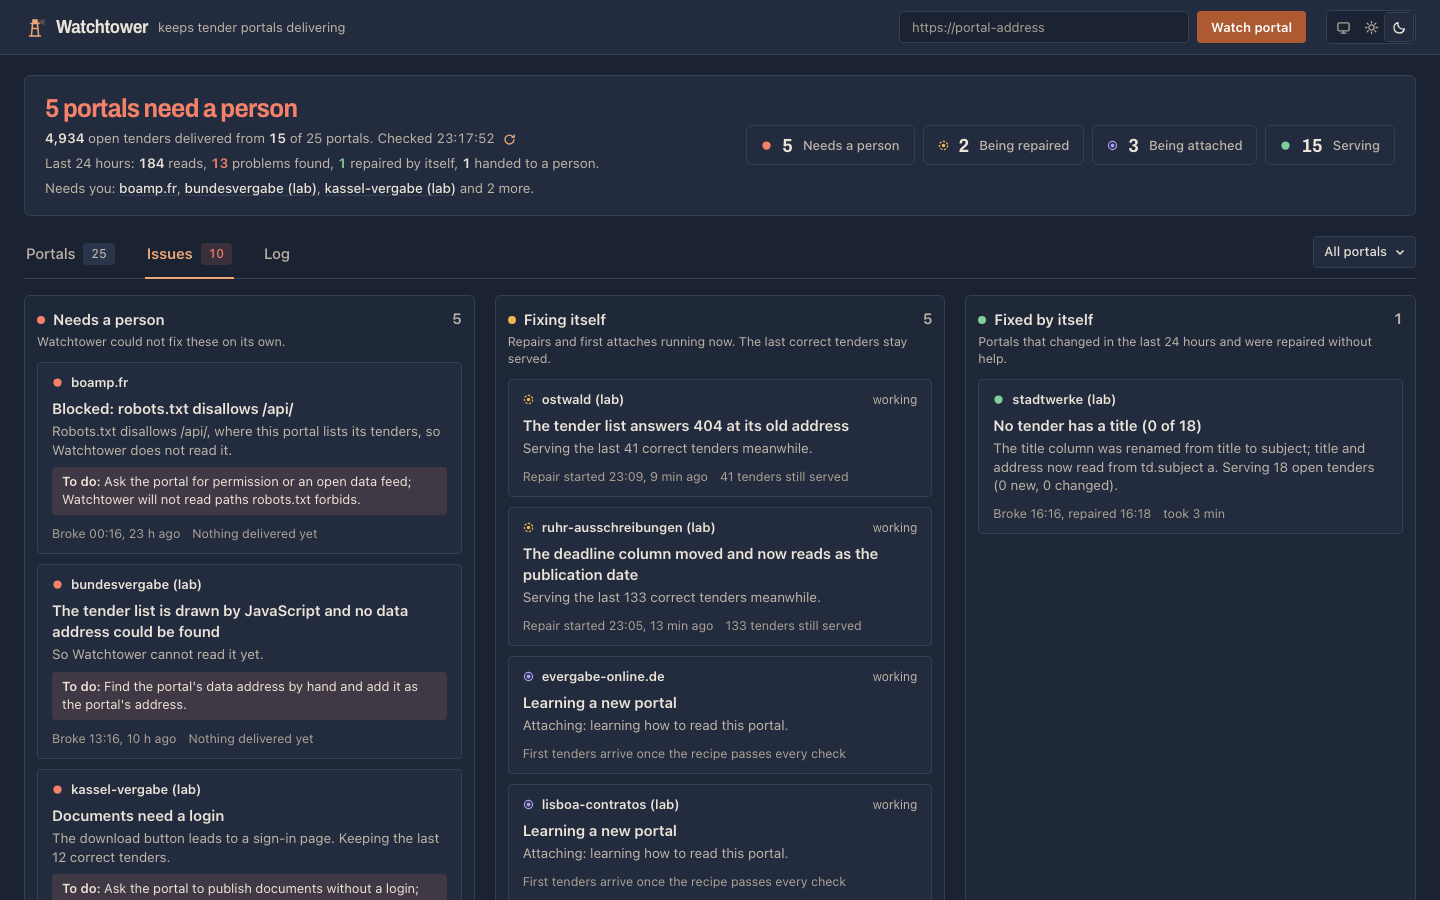
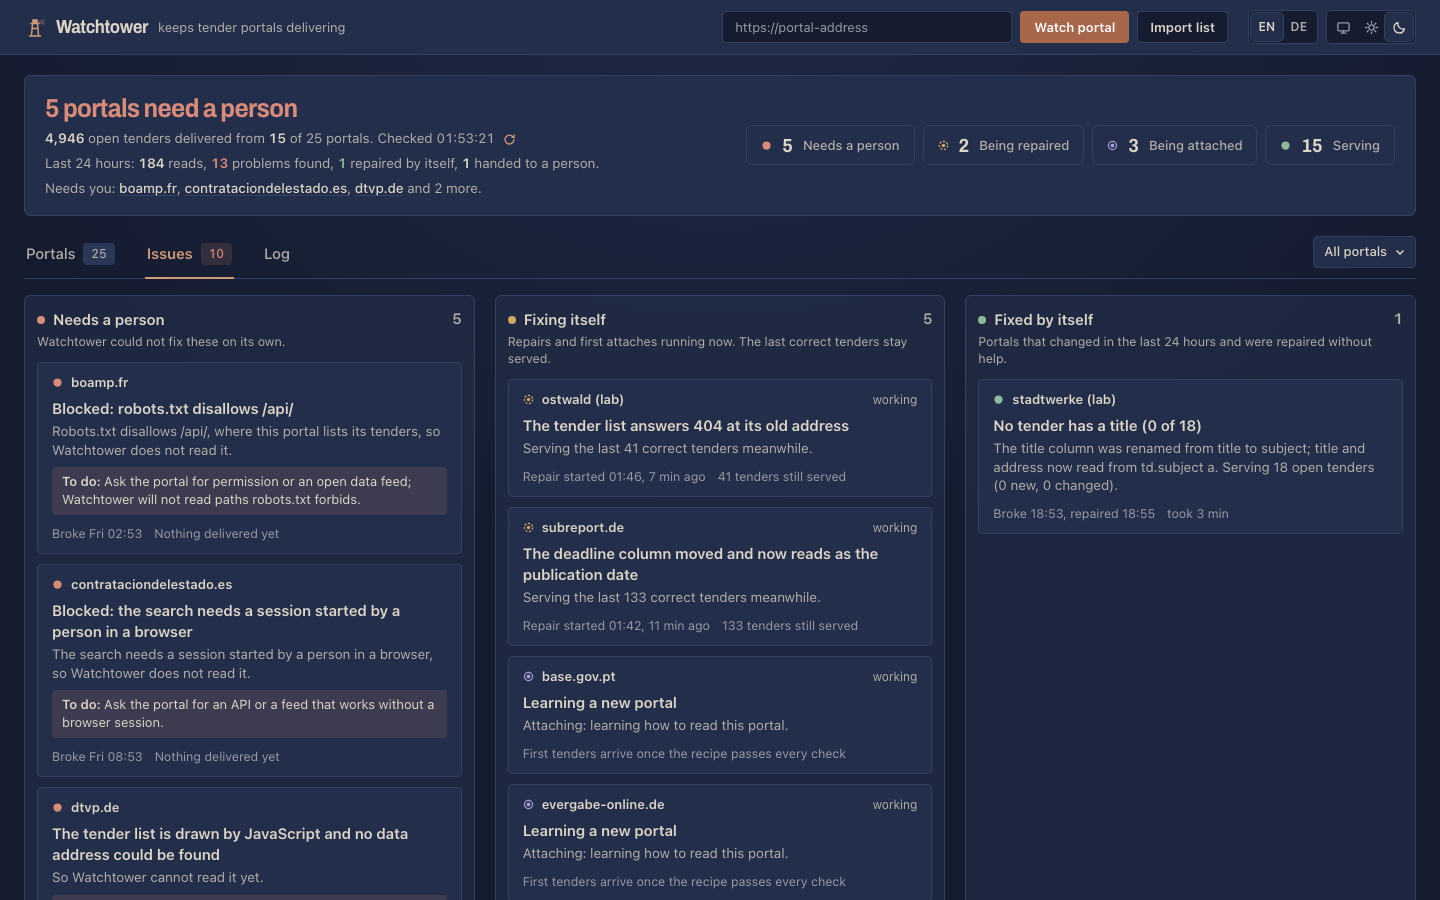
Focus the README on judging evidence

diff --git a/README.md b/README.md
@@ -1,124 +1,97 @@
 # Watchtower
 
-Watchtower connects public-tender portals on its own, watches whether each one still delivers correctly, and repairs itself when a portal changes. Built for Patterno's challenge at the MAIN AI Hackathon 2026.
+Watchtower **attaches** to public tender portals from a URL, **notices** when tenders or documents stop arriving correctly, and **repairs** its extraction rules when a portal changes. It does this without human help while running. If it cannot verify a repair, it explains why and keeps the last correct delivery.
 
-## Try it in 2 minutes
+## Run it
 
-From the repository root, create `.env` if you don't already have one, then set `OPENAI_API_KEY`, `MODEL_SMART`, and `MODEL_FAST` in it. See [Environment variables](#environment-variables) for provider settings.
+Create a local `.env` from `.env.example` if needed. Set `OPENAI_API_KEY`; set `MODEL_SMART` and `MODEL_FAST` if your provider uses names other than the defaults below. Use the root Dockerfile, not `Dockerfile.vercel` (the hosted demo).
 
 ```bash
 test -f .env || cp .env.example .env
-docker build -t watchtower .
+docker build --platform linux/amd64 -t watchtower .
 docker run -p 8080:8080 --env-file .env watchtower
 ```
 
-Open http://localhost:8080. In a second terminal, register a portal:
+Open [localhost:8080](http://localhost:8080) and enter a public portal URL under **Watch portal**. The API returns its ID immediately; delivery follows in the background. No authentication, as the brief specifies. To check the API from another terminal, run `npm run test:contract` after installing the dependencies with `npm ci`. The [November 21, 01:47 CET hand-in check](status/A.md) at `c74950d` records a fresh Linux/amd64 build in about **20 s** and **16/16** contract checks passing.
 
-```bash
-curl -fsS http://localhost:8080/portals \
-  -H 'Content-Type: application/json' \
-  --data '{"url":"https://www.tenderned.nl/aankondigingen/overzicht"}'
+## How it works
+
+```text
+POST /portals → Cartographer (model at attach) → JSON recipe
+    → Extractor (no model; per-host rate limit) → Watch checks → serving
+        ↳ broken → healing (keeps old tenders) → Medic (model patch)
+            → re-read + golden records + document verification → serving or failed with reason
 ```
 
-The API returns an ID immediately; the first read runs in the background and can take longer than two minutes. **Portals** shows delivery state, tender counts, and a map; open a row for its run history. **Issues** shows what needs attention, what is being repaired, and what recovered. **Log** shows what happened across portals. The theme switch offers light, dark, or system settings.
+- **Recipes** describe where to read listings, fields and attachments; they are JSON, not executable model output. Known software families can reuse a recipe after a successful trial without a model call.
+- **Golden tenders** are previously verified records used to check new reads and candidate repairs. Missing evidence never becomes an invented value.
+- **Files** stream to disk, ZIPs are unpacked, and each file is served by its SHA-256. Repair promotion checks fresh downloads of previously delivered files, even when their URLs did not change.
+- **States** distinguish `integrating`, `serving`, `healing`, and `failed`. A portal-wide login, captcha or robots.txt block gets a named failure; isolated document walls hold affected updates back and are named in the reason.
+- **Rate limits** apply to HTTP and browser requests through a shared per-host gate: at most one request per second, respecting robots.txt. Reads on different hosts run in parallel.
+- **Spend limits** reserve estimated headroom before each model request. A failed repair cools down before another model attempt; regular checks continue without a model call.
 
-**Demo without a model key:** with Node.js 22.13 or later, run the following and open http://localhost:8083. The demo seeds sample portals and repair history, disables new registrations, and never starts scheduled reads or model calls. Only an explicit **Read now** starts a read and may change the sample data. The hosted `SEED_DEMO=1` mode follows the same rules.
+## Evidence by judging criterion
+
+**Attach.** The November 21, 00:59–01:04 CET attach-only recheck at `29ec17a` (recorded in `7e04b69`) scored **100%, zero wrong values**: Gmina twice (**13/13** each), Stadtwerke (**14/14**), Ville (**11/11**). The November 20, 22:28 CET full lab run scored **73%, zero wrong values**; missing fields reduced that score (D’s archived `status/D.md` at `931e012`).
+
+**Notice.** Watch checks read completeness, field values and golden records before delivery. The 22:28 full run triggered **3 false repairs in 6** harmless changes. A separate November 21, 00:15 CET Gmina empty-day check had **0 in 1** and stayed `serving` (audit commit `b357b5d`).
+
+**Repair.** The 22:28 full run healed **11 of 13** breaking changes (**85%**), with a **16 s** median. In a separate November 21, 00:29 CET Gmina test, renamed classes repaired in **78.7 s** for **$0.014** (`da52b36` repair check). These are lab observations, not live-portal guarantees.
+
+**Dashboard.** Portals shows state, open versus delivered counts, and the map; Issues shows what needs attention; Log and the detail panel show reads, repairs, and model cost. See the sample views below.
+
+**Approach.** After the initial backlog clears, reads still check the listing but only fetch new or changed details and attachments. The TenderNed measurement recorded November 21 at 01:29 CET (`f9c4577`, [A’s hand-in notes](status/A.md)) listed **2,592** tenders and served its first **36** after about **14 minutes**; B’s November 21 handoff records a separate run at about **8.5 minutes** ([B’s notes](status/B.md)).
+
+## Model cost per portal
+
+| Operation | Model cost | Basis |
+|---|---:|---|
+| Attach once | $0.033 average | B’s November 20, 23:12 CET attach-only eval on three lab portals; the earlier 22:28 full run averaged $0.040. |
+| Regular read | $0 | Deterministic extractor; no model call. |
+| Repair | $0.021 average | November 20, 22:28 CET full lab eval, per scenario that started a repair. |
+| Family attach | $0 | A reused recipe that passes its trial without a model call. |
+
+At the $0.033 lab average, **1,000 independent attaches would cost about $33 once**, plus repairs when portals change. This assumes no family reuse and excludes hosting and storage. The ledger uses configured prices and reported usage; provider billing is authoritative.
+
+## Environment variables
+
+Defaults below come from `src/platform/config.ts`, `src/platform/documents.ts`, `src/shared/time.ts`, `src/llm/client.ts`, `src/server/main.ts`, and the root Dockerfile.
+
+| Variable | Required | Default / meaning |
+|---|---|---|
+| `OPENAI_API_KEY` | For model calls | None; provider key. |
+| `MODEL_SMART`, `MODEL_FAST` | No | `gpt-6.2-sol`, `gpt-6-luna`; override with models your provider serves. |
+| `OPENAI_BASE_URL` | No | OpenAI endpoint; set for an OpenAI-compatible provider. |
+| `PRICE_SMART_IN`, `PRICE_SMART_OUT`, `PRICE_FAST_IN`, `PRICE_FAST_OUT` | No | `0`; set actual USD per million tokens for meaningful cost and spend limits. |
+| `PRICE_SMART_CACHED_IN`, `PRICE_FAST_CACHED_IN` | No | Half the corresponding input price, USD per million tokens. |
+| `LLM_PROMPT_CACHE` | No | Enabled; set `0` to disable. |
+| `MAX_MODEL_USD_PER_PORTAL`, `MAX_MODEL_USD_PER_DAY` | No | `1.00` lifetime per portal and `20` per local day; `0` disables the corresponding model calls. |
+| `PORT`, `DATA_DIR` | No | `8080`; `/data` in Docker, `./data` locally. |
+| `READ_INTERVAL_MINUTES`, `FAILED_RETRY_MINUTES` | No | `30` each; interval between scheduled reads and between failed-portal probes. |
+| `DOC_REFS_PER_READ` | No | `300`; document reference budget per read. |
+| `MIN_REQUEST_GAP_MS` | No | `1100`, minimum `1000`; per-host pacing. |
+| `MAX_FILE_BYTES`, `BROWSER_STEP_MS` | No | `262144000` (250 MiB); `20000` ms for browser download steps. |
+| `USER_AGENT` | No | `WatchtowerBot/0.1 (+tender monitoring; polite, 1 req/s)`. |
+| `TZ_DISPLAY`, `LOG_LEVEL` | No | `Europe/Berlin`, `warn`. |
+| `SEED_DEMO` | No | Off; `1` seeds an empty store and disables the scheduled reader. |
+
+## Dashboard demo
+
+Open [localhost:8083](http://localhost:8083) after running the commands below from the repository root. The demo uses sample data and does not start scheduled reads or model calls; leave **Read now** untouched to keep it that way.
 
 ```bash
 npm ci
 npm run build:web
-DATA_DIR=/tmp/wt-demo PORT=8083 npx tsx scripts/demo.ts
+DATA_DIR=/tmp/wt-readme-demo PORT=8083 npx tsx scripts/demo.ts
 ```
 
 | Portals · light | Issues · dark | Portals · phone |
 |---|---|---|
-| [![Portals dashboard in light mode, with the tender table and map](docs/screens/portals-light.png)](docs/screens/portals-light.png) | [![Issues board in dark mode, with attention, repair, and recovery lanes](docs/screens/issues-dark.png)](docs/screens/issues-dark.png) | [![Portals dashboard on a phone in light mode](docs/screens/phone-light.png)](docs/screens/phone-light.png) |
+| ![Portal status, tender counts and map](docs/screens/portals-light.png) | ![Issues needing attention, being repaired, or recovered](docs/screens/issues-dark.png) | ![Portal summary and list on a phone](docs/screens/phone-light.png) |
 
-Local development: `npm install`, `npx playwright install chromium` (once), then `npm run dev` (API) and `npm run dev:web` (dashboard).
+## Limits
 
-**Team: start with [docs/ONBOARDING.md](docs/ONBOARDING.md).**
-
-`Dockerfile` at the root is the image to evaluate. `Dockerfile.vercel` only builds a hosted showcase with sample data (`SEED_DEMO=1`); it is not needed to run or test Watchtower.
-
-## How it works
-
-**The model proposes, code decides.** A model is used to learn a portal and to repair it. Reading a portal is plain code, so the regular work costs nothing in model usage and gives the same answer every time.
-
-1. **Attach.** For a portal it has never seen, the Cartographer explores the site once and writes a **recipe**: a small JSON file that says where the tender list is (a feed, a JSON API, HTML or a page that needs a browser), how to page through it, where each field and each document is, and which time zone the portal uses. Code then reads the portal with that recipe and keeps a few **golden tenders**, real tenders it can check later.
-2. **Read.** On a schedule (every 30 minutes by default) the Extractor runs the recipe. **No model call.** New and changed tenders get their documents downloaded, hashed (sha256) and unpacked if they are ZIPs. A big portal is served in batches: each read downloads at most 300 documents, newest tenders first, and the next read follows a minute later until all are in. A new tender is served only with its documents, never with an empty list that would look like "no documents".
-3. **Notice.** Before anything is served, deterministic checks decide whether the read is correct: ids unique, dates and deadlines valid, URLs and CPV codes well formed, the number of tenders not collapsing, the page structure unchanged, and the golden tenders still matching. A portal that says "no tenders" is told apart from one that broke.
-4. **Repair.** When the checks fail, the portal goes to `healing` and the last correct tenders stay available. The Medic shows the model what changed and gets back a small patch to the recipe. Code reruns the read with the patch and serves it only if every check passes, golden tenders included. If no patch passes, the portal goes to `failed` and says why.
-
-Each portal is always in one of four states, with a one-sentence `reason` an operator can act on:
-
-| State | Meaning | Example reason |
-|---|---|---|
-| `integrating` | Being attached, nothing delivered yet. | Attaching: learning how to read this portal. |
-| `serving` | Delivering correctly. | Serving 23 open tenders (2 new, 1 changed). Last read 10:42, all checks passed. |
-| `healing` | A read looked wrong; repairing while the last correct tenders stay served. | Repairing: no tender has a title (0 of 23). |
-| `failed` | Cannot deliver; a person is needed. Logins and captchas end here. | Documents need a login: the portal shows a login page instead of the file. |
-
-**Polite by construction.** Every request, from plain HTTP or from the headless browser, passes one gate per portal: at most one request every 1.1 seconds, robots.txt respected (Allow, Disallow, wildcards). No logins and no captcha solving. A portal that shows a captcha but still hands out its files is read normally; one that blocks is `failed`, and the reason says so. `DELETE` stops all traffic to a portal at once, open browser pages and downloads included.
-
-**Documents.** Files stream to disk and are never held in memory. ZIPs are unpacked, one nested ZIP deep. Files over 250 MB are left out, checked from the declared size first and counted while streaming. Multi-step downloads (click through to the file) run in the browser. Each file is served from `/files/{sha256}`.
-
-In company deployments, put the dashboard behind company single sign-on via a reverse proxy; the evaluation container stays open.
-
-## Environment variables
-
-| Name | Required | Default | Meaning |
-|---|---|---|---|
-| `OPENAI_API_KEY` | yes | | Model key (OpenAI or any OpenAI-compatible provider). |
-| `MODEL_SMART` | yes | | Model for attaching and repairing. We use `gpt-6.2-sol`. |
-| `MODEL_FAST` | yes | | Model for triage. We use `gpt-6-luna`. |
-| `OPENAI_BASE_URL` | no | OpenAI | Endpoint of an OpenAI-compatible provider. |
-| `PRICE_SMART_IN`, `PRICE_SMART_OUT`, `PRICE_FAST_IN`, `PRICE_FAST_OUT` | no | 0 | USD per million tokens, so the cost ledger shows money and not only tokens. |
-| `PRICE_SMART_CACHED_IN`, `PRICE_FAST_CACHED_IN` | no | Half the corresponding input price | USD per million cached input tokens. |
-| `LLM_PROMPT_CACHE` | no | Enabled | Set to `0` to disable prompt caching. |
-| `MAX_MODEL_USD_PER_PORTAL` | no | 1.00 | Recorded model spend limit per portal across its lifetime; `0` disables its model calls. |
-| `MAX_MODEL_USD_PER_DAY` | no | 20 | Recorded model spend limit across all portals per server-local day; `0` disables model calls. |
-| `PORT` | no | 8080 | HTTP port. |
-| `SEED_DEMO` | no | 0 | Set to `1` to seed sample data in an empty database and disable scheduled reads. |
-| `DATA_DIR` | no | `/data` in the container | SQLite database and downloaded files. |
-| `READ_INTERVAL_MINUTES` | no | 30 | Time between regular reads of a serving portal. |
-| `FAILED_RETRY_MINUTES` | no | 30 | Time between retries of a failed portal. |
-| `DOC_REFS_PER_READ` | no | 300 | Document downloads per read at most; on a big portal the rest follow in reads one minute apart. |
-| `MIN_REQUEST_GAP_MS` | no | 1100 | Gap between two requests to one portal; never below 1000. |
-| `MAX_FILE_BYTES` | no | 262144000 (250 MB) | Largest document kept. |
-| `BROWSER_STEP_MS` | no | 20000 | How long a browser download waits for a page, a click target or the file. |
-| `USER_AGENT` | no | `WatchtowerBot/0.1 (...)` | How we identify ourselves to portals. |
-| `TZ_DISPLAY` | no | `Europe/Berlin` | Time zone for times the system itself writes. |
-| `LOG_LEVEL` | no | `warn` | Server log level. |
-
-## Access
-
-There is no authentication, as the brief specifies: the API and the dashboard answer without a login. In a production deployment, put the dashboard behind your own single sign-on (for example a reverse proxy) and keep the API on a private network.
-
-## Approach: scale and model cost
-
-Reads run in parallel across portals and are rate-limited to at most one request per second per portal. Portals on the same software can reuse one learned family recipe if it passes a deterministic trial, without another model call for attach.
-
-The first read on a large portal does a bounded amount of detail and document work, but downloads are still limited to one request per second per portal: in our TenderNed run, 2,592 tenders were listed and the first 36 were served after about 14 minutes. Small portals in our lab served their first tenders in 1–3 minutes; once the initial backlog clears, later reads check the listing and fetch only new or changed details and attachments.
-
-Attach and repair reserve estimated worst-case request headroom before sending each model call. Set the input and output prices to match the provider for these local limits to reflect actual spend. Provider billing is authoritative; usage a provider does not report is not visible to the ledger.
-
-Every model call is recorded with its purpose, tokens and cost: `GET /internal/ledger` for all portals, `GET /internal/portals/{id}` for one. The ledger includes `cached_tokens` only when a nonzero count has been recorded by the model client.
-
-| Operation | Model cost |
-|---|---|
-| Attach (once) | **$0.033** average per portal |
-| Regular read | **$0** (no model calls) |
-| Repair | **$0.021** average per scenario that started a repair |
-
-**Attach:** B’s [November 20, 2026, 23:12 CET attach-only eval](status/B.md) on three lab portals measured **100% attach accuracy**, **0 wrong values**, and **$0.033 per attach** on average.
-
-**Attach recheck:** November 21, 2026, approximately 00:59–01:04 CET, `lab/eval.ts --attach-only` on `29ec17a`: Gmina twice (13/13 each), Stadtwerke (14/14), and Ville (11/11) all scored **100%**. This was an attach-only recheck, not a new repair benchmark.
-
-**Repair:** D’s [November 20, 2026, 22:28 CET full lab eval](status/D.md) measured **$0.021** per scenario that started a repair, **85%** of breaking changes healed (**11 of 13**), and **16 s** median heal time. Watchtower started a repair on **3 of 6** harmless changes. These are separate lab runs, not real-portal averages.
-
-**At 1,000 portals:** using the lab average and assuming every portal needs its own model-assisted attach, budget about **1,000 × $0.033 = $33 once**, plus repair costs when portals change. Regular reads make no model calls and cost **$0 in model usage**. Family reuse can lower the initial cost.
-
-**What it saves:** at 300 portals, keeping scrapers working by hand costs an estimated €36,000–132,000 a year in engineering time; with Watchtower about €8,000–22,000, mostly the person who handles the breaks it cannot repair. Mid case: about **€47,500 saved a year (81%)**. Assumptions and sources: [docs/SAVINGS.md](docs/SAVINGS.md).
+Large portals can take several minutes to deliver their first verified batch. Browser-only portals are slower because their page requests share the same rate limit. Watchtower never logs in to a portal or solves a captcha.
 
 ## API
 
